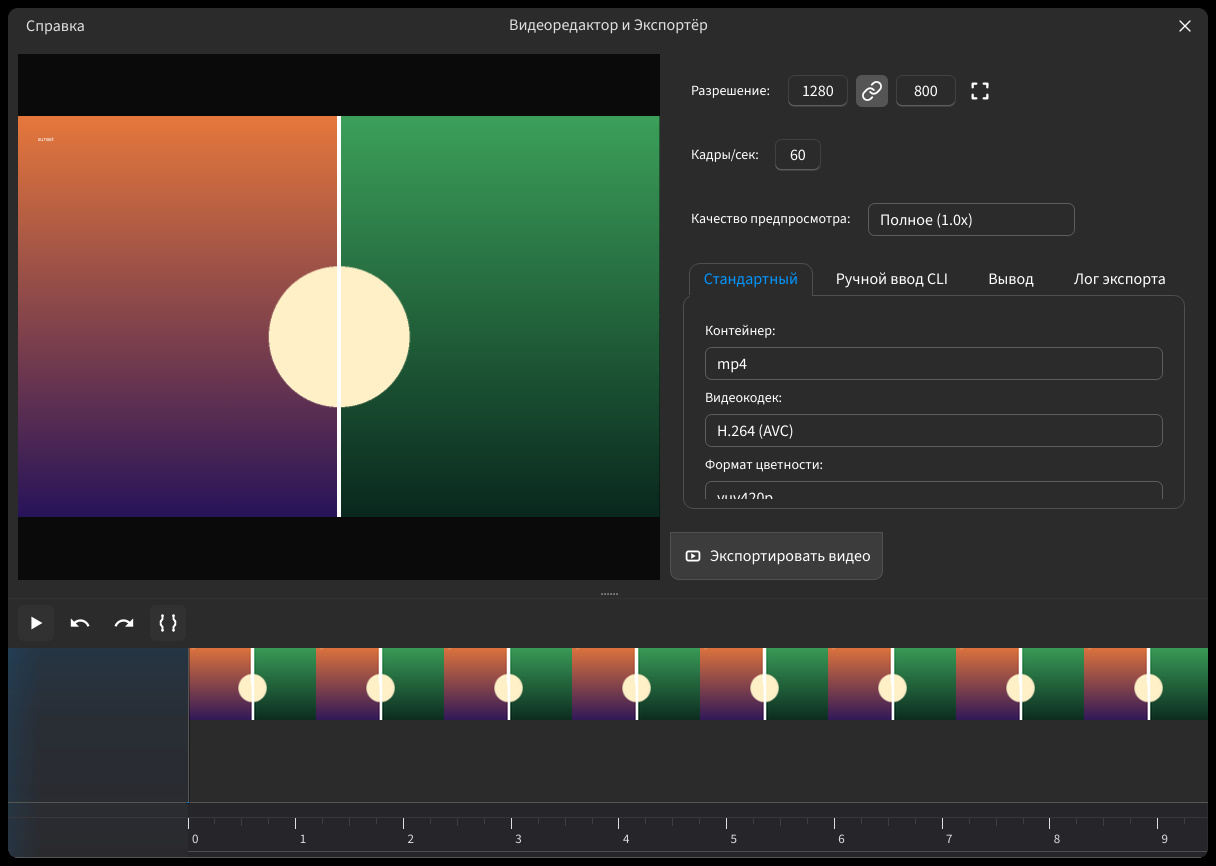
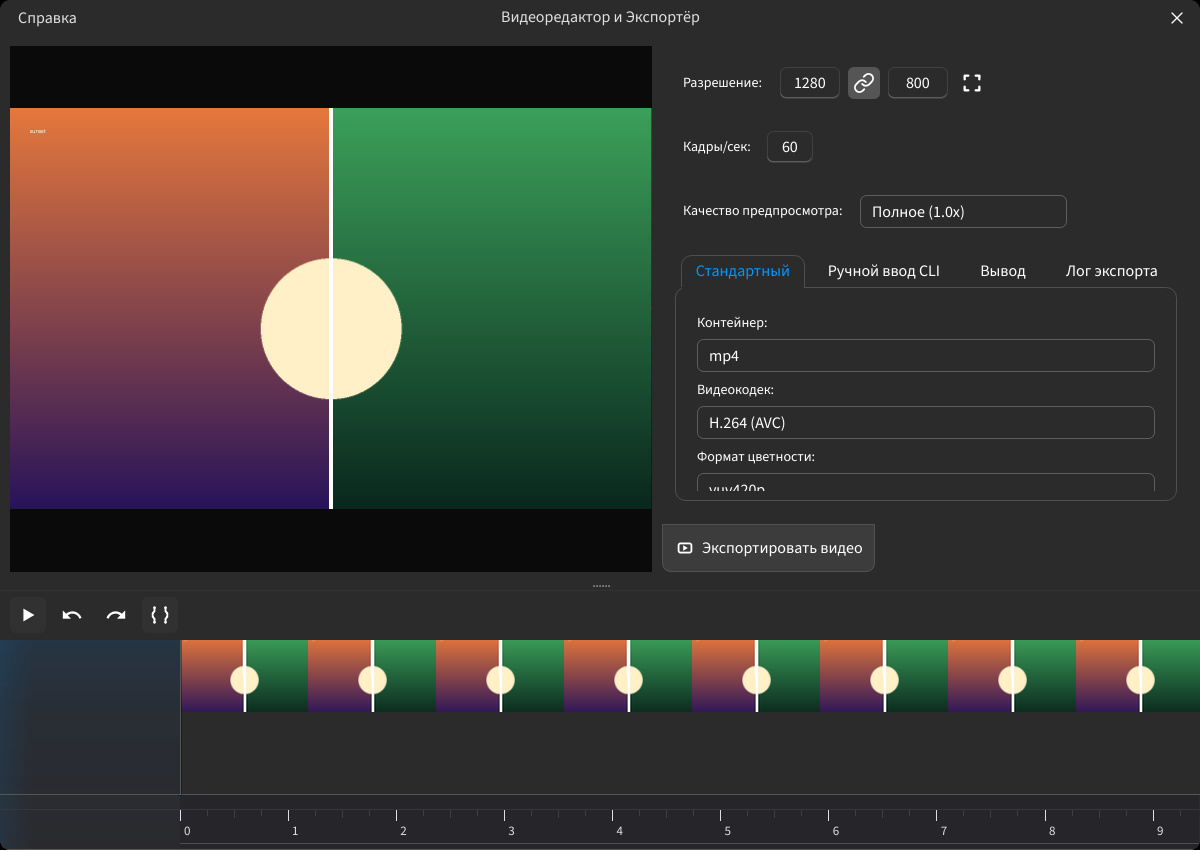
fix(help-figures): trim the root-window band a @screen window crop keeps [help-screen-margin] (#553)
A @screen grab cropped by a window rect keeps the pixels outside the dialog; on
a bare X server those are the root window, so the figure shipped a solid band
(measured on ru/light/video_export.jpg: 33507 dark pixels, 33688 of them inside
a 12 px border, corners (0,0,0) against a light dialog edge). Alpha flattening
cannot repair an opaque band.

Rows/columns that are entirely the corner colour are now trimmed (max 24 px per
side), applied only when capture is @screen and the crop element is a window.
Exact colour equality stops at the first differing pixel, so a dialog whose edge
resembles the band is never eaten.

Red-before: both new tests fail on the old install API. Re-captured the 16 cells
of help-video-editor/help-video-export: 1216x866 -> 1200x850 (the 8 px shadow
inset per side), corners now the theme edge, dialog content intact.

diff --git a/src/devtools/help_live.py b/src/devtools/help_live.py
@@ -981,8 +981,60 @@ def _flatten_alpha(image):
     return background
 
 
+#: A ``@screen`` grab cropped by a window rect keeps the pixels OUTSIDE the
+#: dialog: on a bare X server that is the root window, so the crop bakes a solid
+#: band into the figure (measured on ``ru/light/video_export.jpg``: 33507 dark
+#: pixels, 33688 of them inside a 12 px border, corners (0,0,0) while the dialog
+#: edge is light). Alpha flattening cannot repair an opaque band, so trim it.
+SCREEN_WINDOW_MARGIN_TRIM = 24
+
+
+def _trim_uniform_border(image, max_px: int):
+    """Drop rows/columns that are entirely the corner colour (at most ``max_px``).
+
+    Only used for a ``@screen`` capture cropped by a window rect, where the band
+    is the X root window rather than window content. Exact colour equality, so a
+    dialog whose edge merely resembles the band is never eaten: the crop stops
+    at the first line that carries a single different pixel.
+    """
+    if max_px <= 0:
+        return image
+    rgb = image.convert("RGB")
+    pixels = rgb.load()
+    width, height = rgb.size
+    if width < 3 or height < 3:
+        return image
+    colour = pixels[0, 0]
+
+    def row_is_band(y: int) -> bool:
+        return all(pixels[x, y] == colour for x in range(width))
+
+    def column_is_band(x: int) -> bool:
+        return all(pixels[x, y] == colour for y in range(height))
+
+    top = 0
+    while top < max_px and top < height and row_is_band(top):
+        top += 1
+    bottom = 0
+    while bottom < max_px and bottom < height - top and row_is_band(height - 1 - bottom):
+        bottom += 1
+    left = 0
+    while left < max_px and left < width and column_is_band(left):
+        left += 1
+    right = 0
+    while right < max_px and right < width - left and column_is_band(width - 1 - right):
+        right += 1
+    if not (top or bottom or left or right):
+        return image
+    return image.crop((left, top, width - right, height - bottom))
+
+
 def crop_and_install(
-    screenshot: Path, destination: Path, crop: tuple[int, int, int, int] | None
+    screenshot: Path,
+    destination: Path,
+    crop: tuple[int, int, int, int] | None,
+    *,
+    trim_uniform_border: int = 0,
 ) -> Path:
     from PIL import Image
 
@@ -1001,6 +1053,8 @@ def crop_and_install(
             # Clamped, never padded: PIL pads an out-of-bounds crop with black,
             # which reads as a rendering defect in the shipped figure.
             image = image.crop((left, top, right, bottom))
+        if trim_uniform_border:
+            image = _trim_uniform_border(image, trim_uniform_border)
         destination.parent.mkdir(parents=True, exist_ok=True)
         if destination.suffix.lower() in (".jpg", ".jpeg"):
             _flatten_alpha(image).save(
@@ -1101,7 +1155,17 @@ def main(argv: list[str] | None = None) -> int:
                             for message in fixtures.errors:
                                 print(f"WARN {label} fixture: {message}", file=sys.stderr)
                     target = install_target(figure, locale, theme)
-                    crop_and_install(shot, target, crop)
+                    crop_and_install(
+                        shot,
+                        target,
+                        crop,
+                        trim_uniform_border=(
+                            SCREEN_WINDOW_MARGIN_TRIM
+                            if figure.capture == "@screen"
+                            and (figure.crop_element or {}).get("window")
+                            else 0
+                        ),
+                    )
                     print(
                         f"installed {figure.id} [{locale}/{theme}] -> "
                         f"{target.relative_to(REPO_ROOT).as_posix()}"

diff --git a/tests/devtools/test_help_live.py b/tests/devtools/test_help_live.py
@@ -216,3 +216,48 @@ def test_jpeg_install_composites_the_transparent_window_margin(tmp_path):
     edge = [out.getpixel((x, 0)) for x in range(out.width)]
     edge += [out.getpixel((0, y)) for y in range(out.height)]
     assert all(sum(pixel) > 600 for pixel in edge), edge[:4]
+
+
+def test_screen_window_crop_drops_the_root_window_band(tmp_path):
+    """RED-BEFORE: a @screen crop kept the black root window around the dialog.
+
+    The window rect from ``dump_ui_layout`` includes the CSD shadow, and on a
+    bare X server the pixels outside the dialog are the root window, so the
+    figure shipped a solid band (measured on ``ru/light/video_export.jpg``:
+    33507 dark pixels, 33688 inside a 12 px border).
+    """
+    from PIL import Image
+
+    screen = Image.new("RGB", (60, 50), (0, 0, 0))
+    dialog = Image.new("RGB", (40, 30), (245, 245, 245))
+    screen.paste(dialog, (10, 10))
+    source = tmp_path / "screen.png"
+    screen.save(source)
+
+    destination = tmp_path / "figure.png"
+    help_live.crop_and_install(source, destination, None, trim_uniform_border=24)
+
+    with Image.open(destination) as image:
+        assert image.size == (40, 30), "the root-window band is not window content"
+        out = image.convert("RGB")
+    assert out.getpixel((0, 0)) == (245, 245, 245)
+    assert out.getpixel((39, 29)) == (245, 245, 245)
+
+
+def test_a_uniform_border_trim_never_eats_content(tmp_path):
+    """The band stops at the first differing pixel, even inside ``max_px``."""
+    from PIL import Image
+
+    image = Image.new("RGB", (40, 40), (0, 0, 0))
+    for x in range(40):
+        for y in range(40):
+            if 5 <= x < 35 and 5 <= y < 35:
+                image.putpixel((x, y), (10, 118, 168))
+    source = tmp_path / "shot.png"
+    image.save(source)
+
+    destination = tmp_path / "figure.png"
+    help_live.crop_and_install(source, destination, None, trim_uniform_border=24)
+
+    with Image.open(destination) as out:
+        assert out.size == (30, 30)

diff --git a/docs/dev/SCREENSHOTS.md b/docs/dev/SCREENSHOTS.md
@@ -155,6 +155,14 @@ python src/devtools/help_figures.py --all --write-manifest       # record baseli
   `drift` = different hash (exit code 1), `unbaselined` = the entry has no
   recorded hash yet (reported, not drift, so a fresh recipe exits 0).
   `uncovered` recipe entries are listed after the table and are never generated.
+- **A `@screen` crop of a top-level window trims the root-window band.**
+  The window rect from `dump_ui_layout` includes the CSD shadow, and on a bare
+  X server everything outside the dialog is the root window, so the crop used to
+  bake a solid band into the figure (measured on `video_export`: 33507 dark
+  pixels, 33688 inside a 12 px border). Rows/columns that are *entirely* the
+  corner colour are trimmed, at most `SCREEN_WINDOW_MARGIN_TRIM` (24 px) per
+  side, and only for `capture: @screen` + a `window` crop element — exact colour
+  equality stops at the first differing pixel, so content is never eaten.
 - **Baselines.** `--write-manifest` records `sha256`, byte size, dimensions and
   the applied pins for what it generated. Recording needs a real display, so a
   fresh recipe stays `unbaselined` until someone runs `--all --write-manifest`
